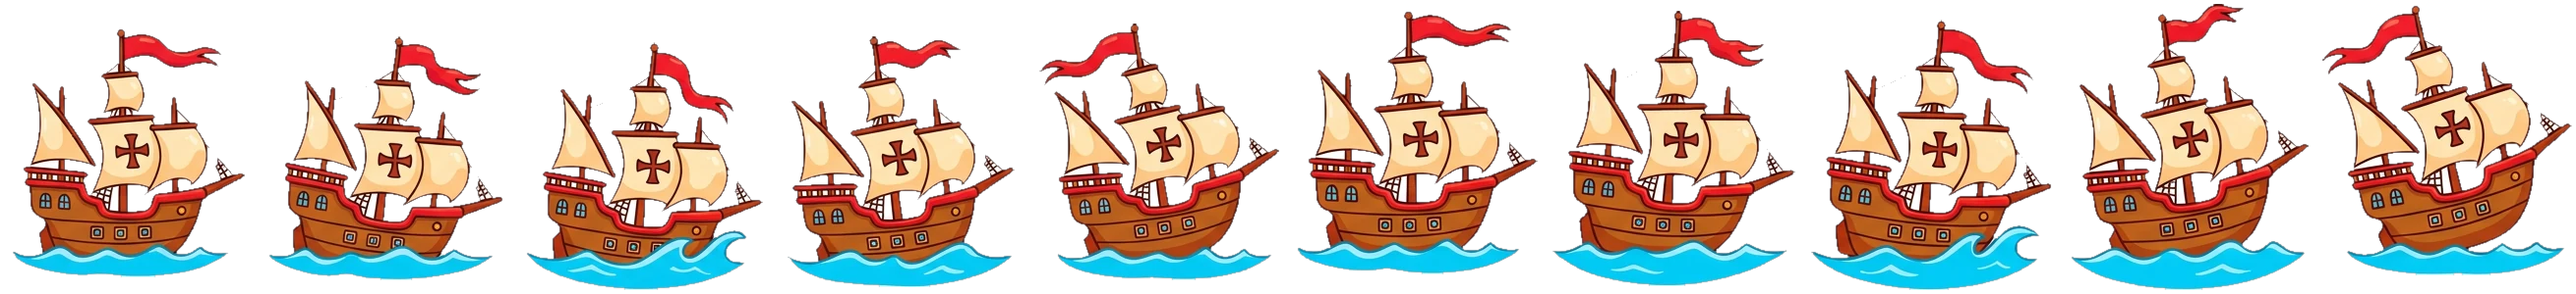
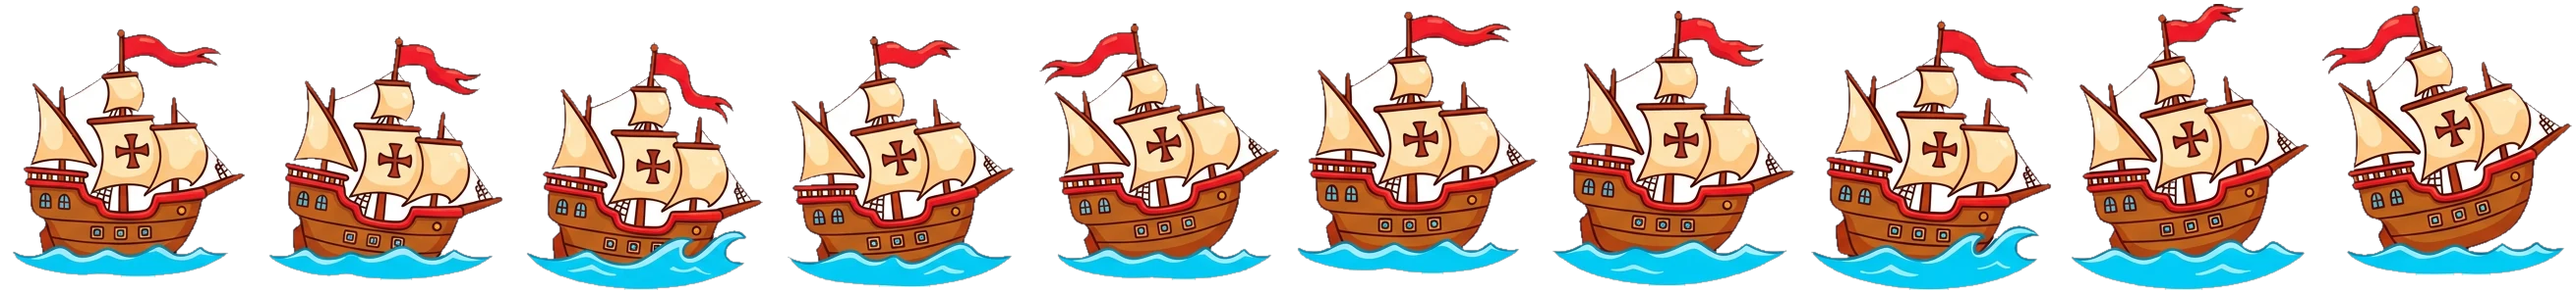
Frise : personnages qui avancent, roues intactes, hauteurs corrigées
- Les intérieurs blancs (roues, voiles) font partie du dessin : la
  suppression des poches est abandonnée, plus de trous de détourage.
- Le drakkar pose sa coque sur la ligne (mesuré : +20 % de hauteur),
  ses rames plongent dessous ; le char descend de 5 %.
- Déplacement horizontal réel : chaque personnage traverse son époque
  à 22 % de la vitesse du ruban et revient par l'autre bord, en plus
  du cycle d'animation et du demi-tour selon la direction.

Claude-Session: https://claude.ai/code/session_01MoSM3c75amsanL64Sy4Ynm

diff --git a/erea_flutter/lib/ui/tape_widget.dart b/erea_flutter/lib/ui/tape_widget.dart
@@ -32,14 +32,19 @@ const Map<int, String> _eraBgAssets = {
 class _TravelerSpec {
   final String asset;
   final int frames;
-  const _TravelerSpec(this.asset, [this.frames = 1]);
+
+  /// Décalage vertical (fraction de la hauteur du sprite) : positif =
+  /// descendu. Le drakkar pose ainsi sa coque sur la ligne, ses rames
+  /// plongeant dessous.
+  final double dyFrac;
+  const _TravelerSpec(this.asset, [this.frames = 1, this.dyFrac = 0]);
 }
 
 const Map<int, _TravelerSpec> _eraTravelerSpecs = {
   0: _TravelerSpec('assets/img/anim-bronze.webp', 6),
   1: _TravelerSpec('assets/img/anim-fer.webp', 6),
-  2: _TravelerSpec('assets/img/anim-antiquite.webp', 7),
-  3: _TravelerSpec('assets/img/anim-moyenage.webp', 5),
+  2: _TravelerSpec('assets/img/anim-antiquite.webp', 7, 0.05),
+  3: _TravelerSpec('assets/img/anim-moyenage.webp', 5, 0.20),
   4: _TravelerSpec('assets/img/anim-moderne.webp', 10),
   5: _TravelerSpec('assets/img/anim-contemporaine.webp', 5),
 };
@@ -341,16 +346,21 @@ class _TapePainter extends CustomPainter {
           final bandW = right - left;
           final n = math.max(1, bandW ~/ 640);
           final spacing = bandW / n;
+          // Les personnages avancent réellement : ils traversent leur
+          // époque au fil du défilement (22 % de la vitesse du ruban)
+          // et reviennent par l'autre bord.
+          final drift = frac * tapeW * 0.22;
+          final sprTop = bandBottom - sprH - 2 + sprH * spec.dyFrac;
           for (var k = 0; k < n; k++) {
-            final x = left + spacing * (k + 0.5) - sprW / 2;
+            final off = (spacing * (k + 0.5) - drift) % bandW;
+            final x = left + off - sprW / 2;
             var fi = 0;
             if (frames > 1) {
               fi = ((frac * tapeW / 24).floor() + k) % frames;
               if (fi < 0) fi += frames;
             }
             final srcR = Rect.fromLTWH(fi * fw, 0, fw, fh);
-            final dstR =
-                Rect.fromLTWH(x, bandBottom - sprH - 2, sprW, sprH);
+            final dstR = Rect.fromLTWH(x, sprTop, sprW, sprH);
             if (facingLeft) {
               canvas.save();
               canvas.translate(x + sprW / 2, 0);
